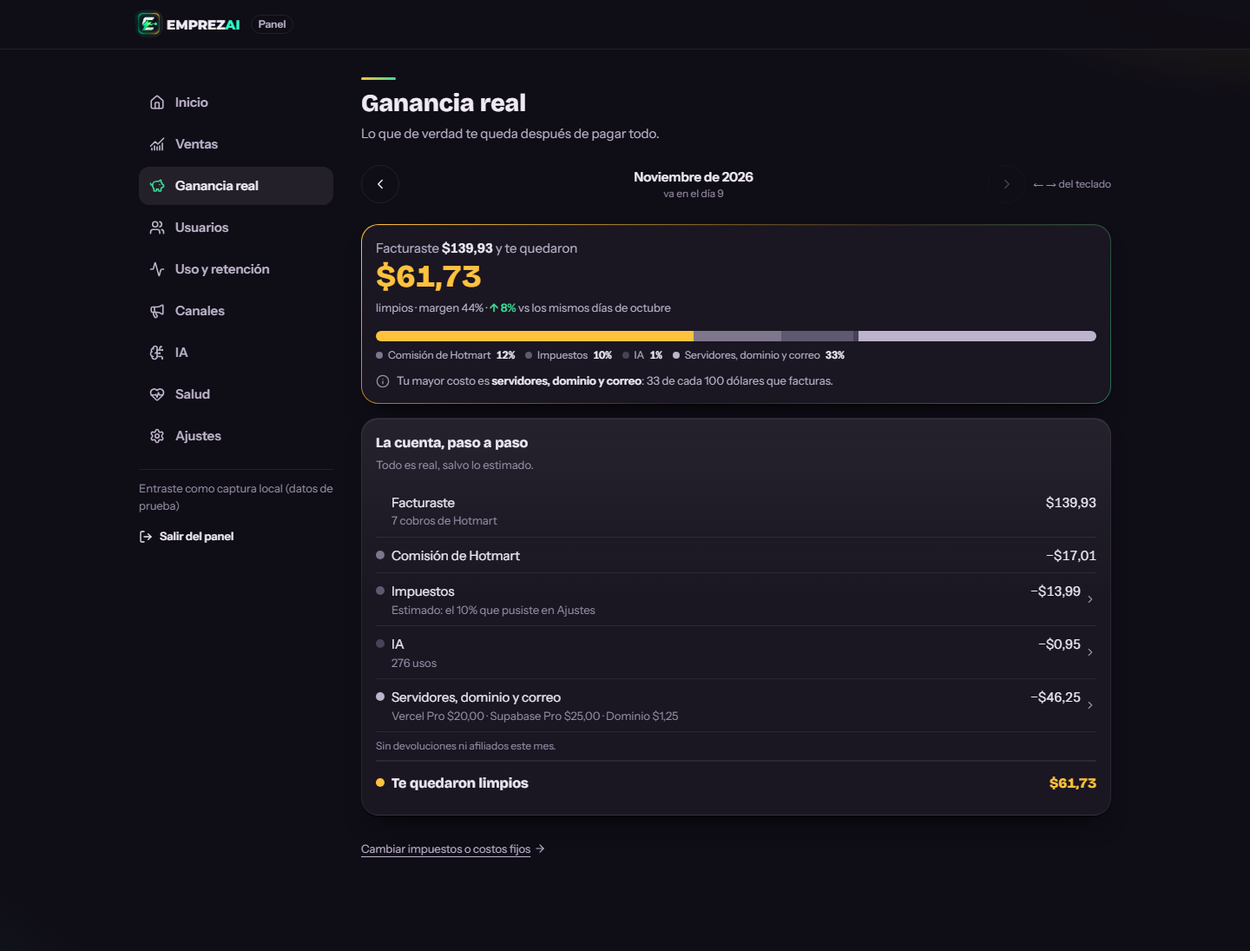
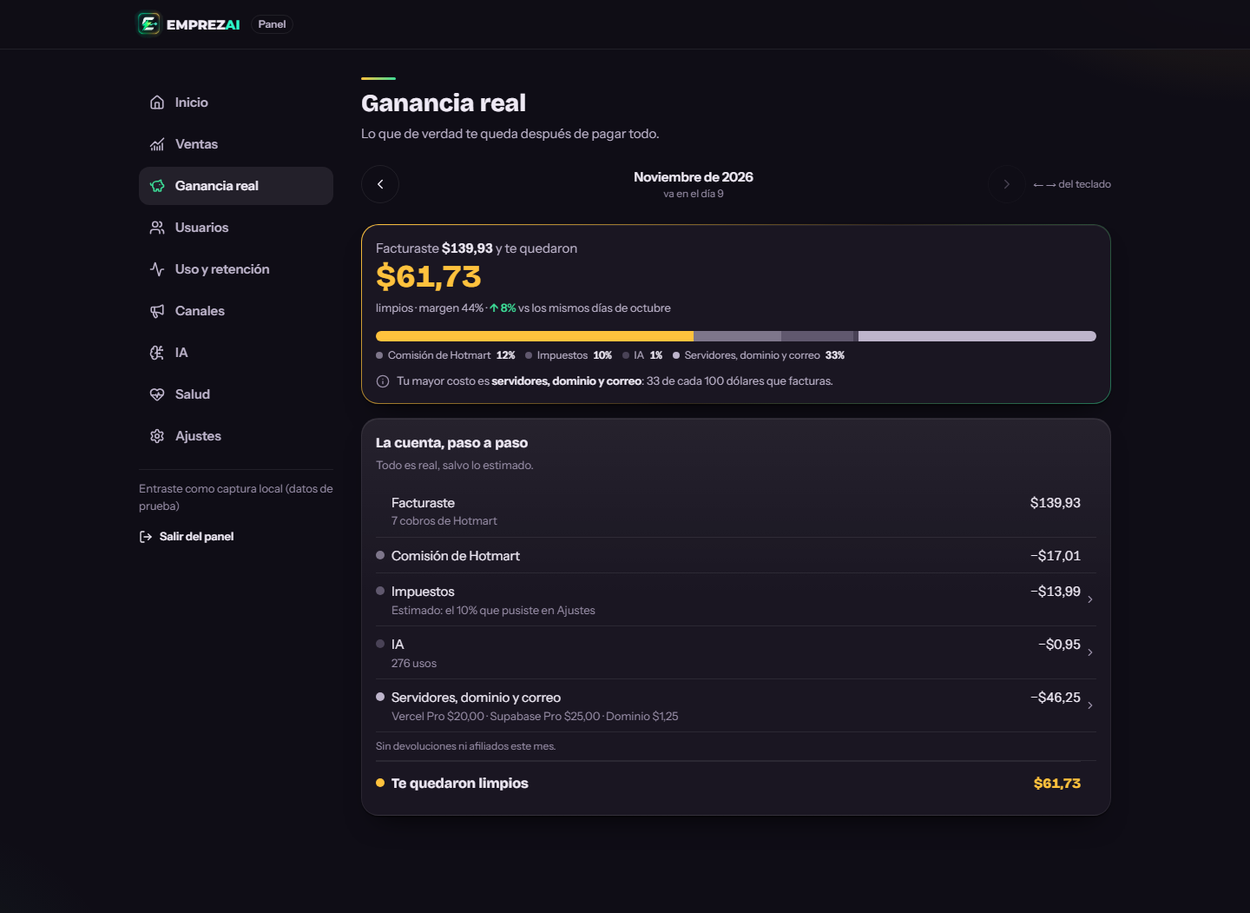
fix(panel): ronda 8 — montos alineados, aviso de canales legible, hoy marcado sin color de éxito, textos de ventas

diff --git a/app/admin/(panel)/ganancia/page.tsx b/app/admin/(panel)/ganancia/page.tsx
@@ -2,9 +2,7 @@
 // va cada dólar (una barra por tramos), después la cuenta paso a paso. Lo real se marca como real y
 // lo estimado, como estimado. Con flechas para ver otros meses.
 
-import Link from 'next/link';
-import { ArrowRight } from 'lucide-react';
-import { Encabezado, FilaMonto, Lectura, SelectorMes, TOCABLE, Tarjeta, TituloTarjeta, Variacion } from '@/components/admin/ui';
+import { Encabezado, FilaMonto, Lectura, SelectorMes, Tarjeta, TituloTarjeta, Variacion } from '@/components/admin/ui';
 import { Cuenta } from '@/components/admin/movimiento';
 import { dinero, entero, pct, variacion } from '@/lib/panel-formato';
 import { calcularGanancia, leerAjustes, leerIa, leerVentas, periodoElegido } from '@/lib/servidor/panel';
@@ -92,7 +90,7 @@ export default async function GananciaPanel({ searchParams }: { searchParams: Pr
       <Tarjeta className="mb-4" indice={2}>
         <TituloTarjeta ayuda="Todo es real, salvo lo estimado.">La cuenta, paso a paso</TituloTarjeta>
         <div className="divide-y divide-[var(--line)]">
-          <FilaMonto concepto="Facturaste" monto={dinero(g.bruto)} nota={g.ventas > 0 ? `${entero(g.ventas)} ${g.ventas === 1 ? 'cobro' : 'cobros'} de Hotmart` : 'Sin cobros todavía'} />
+          <FilaMonto reservarFlecha concepto="Facturaste" monto={dinero(g.bruto)} nota={g.ventas > 0 ? `${entero(g.ventas)} ${g.ventas === 1 ? 'cobro' : 'cobros'} de Hotmart` : 'Sin cobros todavía'} />
           {g.devuelto >= 0.005 && <FilaMonto concepto="Devoluciones" color={COLOR.devuelto} monto={monto(g.devuelto)} href={`/admin/ventas?mes=${periodo.param}&tipo=devoluciones`} />}
           <FilaMonto
             concepto="Comisión de Hotmart"
@@ -100,8 +98,9 @@ export default async function GananciaPanel({ searchParams }: { searchParams: Pr
             monto={monto(g.comision)}
             nota={g.comisionEstimada ? 'Parte estimada (9,9% + $0,45) en las ventas que llegaron sin el detalle' : undefined}
             apagada={g.comision < 0.005}
+            reservarFlecha
           />
-          {g.afiliados >= 0.005 && <FilaMonto concepto="Afiliados" color={COLOR.afiliados} monto={monto(g.afiliados)} nota={g.afiliadosSinInformar > 0 ? `${g.afiliadosSinInformar} ventas llegaron sin el detalle` : undefined} />}
+          {g.afiliados >= 0.005 && <FilaMonto reservarFlecha concepto="Afiliados" color={COLOR.afiliados} monto={monto(g.afiliados)} nota={g.afiliadosSinInformar > 0 ? `${g.afiliadosSinInformar} ventas llegaron sin el detalle` : undefined} />}
           <FilaMonto concepto="Impuestos" color={COLOR.impuestos} monto={monto(g.impuestos)} nota={`Estimado: el ${pct(g.impuestosPct)} que pusiste en Ajustes`} apagada={g.impuestos < 0.005} href="/admin/ajustes" />
           <FilaMonto concepto="IA" color={COLOR.ia} monto={monto(g.ia)} nota={`${entero(ia.llamadas)} usos`} apagada={g.ia < 0.005} href={`/admin/ia?mes=${periodo.param}`} />
           <FilaMonto
@@ -113,15 +112,11 @@ export default async function GananciaPanel({ searchParams }: { searchParams: Pr
             href="/admin/ajustes"
           />
           {g.devuelto < 0.005 && g.afiliados < 0.005 && <p className="py-2 text-xs text-ink-3">Sin devoluciones ni afiliados este mes.</p>}
-          <FilaMonto total concepto="Te quedaron limpios" monto={dinero(g.ganancia)} color={COLOR.queda} />
+          <FilaMonto reservarFlecha total concepto="Te quedaron limpios" monto={dinero(g.ganancia)} color={COLOR.queda} />
         </div>
         {g.otrasMonedas.length > 0 && <p className="mt-2 text-caption text-ink-3">Las ventas en {g.otrasMonedas.join(', ')} no están en esta cuenta: no se suman sin un tipo de cambio con fuente.</p>}
       </Tarjeta>
 
-      <Link href="/admin/ajustes" className={`${TOCABLE} inline-flex min-h-11 items-center gap-1 text-caption text-ink-2 underline underline-offset-4 hover:text-ink-1`}>
-        Cambiar impuestos o costos fijos
-        <ArrowRight size={14} aria-hidden="true" />
-      </Link>
     </div>
   );
 }

diff --git a/app/admin/(panel)/canales/page.tsx b/app/admin/(panel)/canales/page.tsx
@@ -11,7 +11,7 @@ import { calcularChurn, calcularLtv, leerCanales, leerClientes, leerVentas, peri
 
 function veredicto(canal: string, ratio: number | null, gasto: number, clientes: number) {
   const neutro = 'border border-[var(--line)]';
-  if (gasto <= 0) return /^afiliad/.test(canal) ? { texto: 'Paga por venta', tono: 'text-ink-2', fondo: neutro, orden: 3 } : { texto: 'Sin gasto', tono: 'text-ink-3', fondo: '', orden: 3 };
+  if (gasto <= 0) return /^afiliad/.test(canal) ? { texto: 'Paga por venta', tono: 'text-ink-2', fondo: neutro, orden: 3 } : { texto: 'Sin gasto', tono: 'text-ink-2', fondo: neutro, orden: 3 };
   if (clientes === 0) return { texto: 'Sin clientes nuevos', tono: 'text-danger', fondo: 'bg-[color-mix(in_oklab,var(--danger)_14%,transparent)]', orden: 0 };
   if (ratio === null) return { texto: 'Sin datos', tono: 'text-ink-3', fondo: '', orden: 2 };
   if (ratio >= 3) return { texto: 'Sano', tono: 'text-green', fondo: 'bg-[color-mix(in_oklab,var(--green)_14%,transparent)]', orden: 2 };
@@ -57,7 +57,7 @@ export default async function CanalesPanel({ searchParams }: { searchParams: Pro
             numero={cacGeneral}
             formato="dinero"
             decimales={2}
-            detalle={cacGeneral !== null ? 'Promedio de los canales con gasto' : 'Se calcula con gasto y clientes del mismo canal'}
+            detalle={cacGeneral !== null ? 'De anuncios, promedio de todos los canales' : 'Se calcula con gasto y clientes del mismo canal'}
           />
         </Tarjeta>
         <Tarjeta indice={3} className="col-span-2 lg:col-span-1">
@@ -72,12 +72,13 @@ export default async function CanalesPanel({ searchParams }: { searchParams: Pro
       </div>
       {pierde && cacGeneral !== null && vida && (
         <div role="status" className="mb-4 rounded-[var(--radius-card)] border border-[color-mix(in_oklab,var(--danger)_45%,transparent)] bg-[color-mix(in_oklab,var(--danger)_8%,transparent)] p-4 text-ayuda text-ink-1">
-          <strong className="block font-display text-base font-bold">Los anuncios te cuestan más de lo que dejan</strong>
+          <strong className="block font-display text-base font-bold text-ink-1">Los anuncios te cuestan más de lo que dejan</strong>
           <span className="mt-1 block text-caption text-ink-2">Cada cliente de anuncios cuesta {dinero(cacGeneral)} y deja unos {dinero(vida.ltv)}.</span>
           {(perdedores.length > 0 || ganadores.length > 0) && (
             <span className="mt-1 block text-caption text-ink-2">
               {perdedores.length > 0 && `Baja primero el gasto en ${perdedores.map((f) => nombreCanal(f.canal)).join(' y ')}.`}
-              {ganadores.length > 0 && ` ${ganadores.map((f) => nombreCanal(f.canal)).join(' y ')} sí se ${ganadores.length === 1 ? 'paga' : 'pagan'}.`}
+              {ganadores.length > 0 && ` ${ganadores.map((f) => nombreCanal(f.canal)).join(' y ')} sí se ${ganadores.length === 1 ? 'paga' : 'pagan'}`}
+              {ganadores.length > 0 && ' (una suscripción tarda meses en pagarse).'}
             </span>
           )}
         </div>
@@ -139,7 +140,7 @@ export default async function CanalesPanel({ searchParams }: { searchParams: Pro
             })}
           </ul>
         )}
-        <Lectura>Una suscripción casi nunca se paga en el primer mes: por eso un canal puede ir en negativo este mes y aun así ser sano.</Lectura>
+        {!pierde && <Lectura>Una suscripción casi nunca se paga en el primer mes: por eso un canal puede ir en negativo este mes y aun así ser sano.</Lectura>}
       </Tarjeta>
 
       <Link href="/admin/ajustes#gastos" className={`${TOCABLE} tarjeta-relieve-base flex min-h-12 items-center gap-3 rounded-[var(--radius-card)] px-4 text-ayuda font-semibold text-ink-1 hover:bg-raised`}>

diff --git a/app/admin/(panel)/ia/page.tsx b/app/admin/(panel)/ia/page.tsx
@@ -35,6 +35,8 @@ export default async function IaPanel({ searchParams }: { searchParams: Promise<
   const promedioDia = serie.length > 0 ? ia.total_usd / serie.length : 0;
   const hayDisparados = serie.some((d) => promedioDia > 0 && d.usd > promedioDia * 2);
   const { mrr, pagando } = calcularMrr(clientes);
+  const piezaGratis = ia.por_funcion.find((f) => f.tipo === 'primera_pieza');
+  const piezaGratisPct = piezaGratis && ia.total_usd > 0 ? (piezaGratis.usd / ia.total_usd) * 100 : null;
   const pagaUno = pagando > 0 ? mrr / pagando : null;
   const sospechosos = porUsuario !== null ? ia.top_usuarios.filter((u) => u.usd > porUsuario * 3) : [];
 
@@ -70,7 +72,7 @@ export default async function IaPanel({ searchParams }: { searchParams: Promise<
             numero={porUsuario}
             formato="dinero"
             decimales={3}
-            detalle={porUsuario !== null ? (pagaUno ? `${pct((porUsuario / pagaUno) * 100, 1)} de lo que paga uno` : `${entero(ia.usuarios_con_ia)} clientes`) : 'Aún ningún cliente la usó'}
+            detalle={porUsuario !== null ? (pagaUno ? `de los ${dinero(pagaUno)} que paga cada uno al mes` : `${entero(ia.usuarios_con_ia)} clientes`) : 'Aún ningún cliente la usó'}
           />
         </Tarjeta>
         <Tarjeta indice={3}>
@@ -115,7 +117,7 @@ export default async function IaPanel({ searchParams }: { searchParams: Promise<
 
       {ia.por_dia && ia.por_dia.some((d) => d.usd > 0) && (
         <Tarjeta className="mb-4" indice={5}>
-          <TituloTarjeta ayuda={`Punteada: tu promedio · verde: hoy${hayDisparados ? ' · ámbar: más del doble' : ''}.`}>Gasto día por día</TituloTarjeta>
+          <TituloTarjeta ayuda={`Punteada: tu promedio${hayDisparados ? ' · ámbar: más del doble' : ''}.`}>Gasto día por día</TituloTarjeta>
           <p className="mb-2 text-caption text-ink-2">
             Promedio <strong className="font-semibold text-ink-1 tabular-nums">{dinero(promedioDia, 2)}</strong> por día
             {diaMasCaro && (
@@ -149,6 +151,11 @@ export default async function IaPanel({ searchParams }: { searchParams: Promise<
                 </li>
               ))}
             </ul>
+          )}
+          {piezaGratisPct !== null && piezaGratisPct >= 25 && (
+            <Lectura>
+              La pieza gratis es el {pct(piezaGratisPct)} del gasto: es lo que cuesta mostrarle el resultado a quien todavía no paga. Vale la pena si muchas de esas personas terminan comprando (míralo en Uso).
+            </Lectura>
           )}
         </Tarjeta>
         <Tarjeta indice={7}>

diff --git a/app/admin/(panel)/ventas/page.tsx b/app/admin/(panel)/ventas/page.tsx
@@ -115,14 +115,14 @@ export default async function VentasPanel({ searchParams }: { searchParams: Prom
             numero={conversion}
             formato="pct"
             tono={conversion !== null && conversion >= 40 && pruebasTerminadas >= 10 ? 'bien' : 'neutro'}
-            detalle={conversion !== null ? `${entero(ventas.pruebas_a_pago)} de ${entero(pruebasTerminadas)} que terminaron${pruebasTerminadas < 10 ? ' (aún son pocas para sacar conclusiones)' : ''}` : `${entero(ventas.pruebas_iniciadas)} pruebas nuevas; ninguna terminó aún`}
+            detalle={conversion !== null ? `${entero(ventas.pruebas_a_pago)} de ${entero(pruebasTerminadas)} que terminaron${pruebasTerminadas < 10 ? ' (aún pocas)' : ''}` : `${entero(ventas.pruebas_iniciadas)} pruebas nuevas; ninguna terminó aún`}
           />
         </Tarjeta>
       </div>
 
       <div className="mb-4 grid gap-3 lg:grid-cols-2">
         <Tarjeta indice={5}>
-          <TituloTarjeta ayuda="Separado porque se resuelve distinto: unos decidieron irse, a otros les falló el pago.">Quién se fue y por qué</TituloTarjeta>
+          <TituloTarjeta ayuda={nadieSeFue ? undefined : 'Separado porque se resuelve distinto: unos decidieron irse, a otros les falló el pago.'}>Quién se fue y por qué</TituloTarjeta>
           {churn.total !== null && (
             <p className="mb-3 text-caption text-ink-2">
               <strong className={`font-display text-xl font-extrabold tabular-nums ${churn.total > 8 ? 'text-danger' : 'text-ink-1'}`}>{churn.total.toLocaleString('es', { maximumFractionDigits: 1 })}%</strong> de los {entero(ventas.pagando_al_inicio)} que pagaban al empezar el mes
@@ -241,7 +241,7 @@ export default async function VentasPanel({ searchParams }: { searchParams: Prom
         )}
         {clientes.manuales > 0 && (
           <p className="mt-3 text-caption text-ink-3">
-            {entero(clientes.manuales)} {clientes.manuales === 1 ? 'persona tiene acceso regalado' : 'personas tienen acceso regalado'} por ti: no cuentan como venta.
+            {entero(clientes.manuales)} {clientes.manuales === 1 ? 'persona tiene acceso regalado por ti: no cuenta como venta.' : 'personas tienen acceso regalado por ti: no cuentan como venta.'}
           </p>
         )}
       </Tarjeta>

diff --git a/components/admin/Graficos.tsx b/components/admin/Graficos.tsx
@@ -62,7 +62,7 @@ export function GraficoGastoDia({ datos }: { datos: { fecha: string; usd: number
   return (
     <div className="h-36 w-full min-w-0" role="img" title="Línea punteada: tu promedio por día" aria-label={`Gasto de IA por día: US${total.toFixed(2)} en total`}>
       <ResponsiveContainer width="100%" height="100%" minWidth={0}>
-        <BarChart data={datos} margin={{ top: 8, right: 0, bottom: 0, left: 0 }}>
+        <BarChart data={datos} margin={{ top: 18, right: 0, bottom: 0, left: 0 }}>
           <XAxis dataKey="fecha" ticks={marcas} tickFormatter={fechaEje} axisLine={false} tickLine={false} tick={{ fill: 'var(--ink-3)', fontSize: 11 }} interval="preserveStartEnd" />
           <Tooltip
             cursor={{ fill: 'rgb(255 255 255 / 0.04)' }}
@@ -72,9 +72,10 @@ export function GraficoGastoDia({ datos }: { datos: { fecha: string; usd: number
             labelStyle={{ color: 'var(--ink-2)' }}
           />
           <ReferenceLine y={promedio} stroke="var(--ink-3)" strokeDasharray="3 3" />
+          {hoy && <ReferenceLine x={hoy} stroke="transparent" label={{ value: 'hoy', position: 'top', fill: 'var(--ink-2)', fontSize: 11, fontWeight: 600 }} />}
           <Bar dataKey="usd" radius={[3, 3, 0, 0]} isAnimationActive={!reduce} animationDuration={600}>
             {datos.map((d) => (
-              <Cell key={d.fecha} fill={d.usd > promedio * 2 && promedio > 0 ? 'var(--warning)' : d.fecha === hoy ? 'var(--green)' : 'color-mix(in oklab, var(--ink-2) 60%, transparent)'} />
+              <Cell key={d.fecha} fill={d.usd > promedio * 2 && promedio > 0 ? 'var(--warning)' : 'color-mix(in oklab, var(--ink-2) 60%, transparent)'} />
             ))}
           </Bar>
         </BarChart>

diff --git a/components/admin/ui.tsx b/components/admin/ui.tsx
@@ -247,7 +247,26 @@ export function BannerAvisos({ avisos, periodo }: { avisos: Aviso[]; periodo: st
 }
 
 /** Fila "concepto · monto" de la cascada de ganancia. El signo vive SOLO en el monto. */
-export function FilaMonto({ concepto, monto, nota, total = false, color, apagada = false, href }: { concepto: string; monto: string; nota?: string; total?: boolean; color?: string; apagada?: boolean; href?: string }) {
+export function FilaMonto({
+  concepto,
+  monto,
+  nota,
+  total = false,
+  color,
+  apagada = false,
+  href,
+  reservarFlecha = false,
+}: {
+  concepto: string;
+  monto: string;
+  nota?: string;
+  total?: boolean;
+  color?: string;
+  apagada?: boolean;
+  href?: string;
+  /** En listas donde algunas filas son tocables: deja el lugar de la flecha para que los montos queden alineados. */
+  reservarFlecha?: boolean;
+}) {
   if (href) {
     return (
       <Link href={href} className={`${TOCABLE} group flex items-center gap-1 hover:bg-[color-mix(in_oklab,var(--ink-1)_4%,transparent)]`}>
@@ -256,6 +275,16 @@ export function FilaMonto({ concepto, monto, nota, total = false, color, apagada
         </span>
         <ChevronRight size={14} className="shrink-0 text-ink-3 transition-transform group-hover:translate-x-0.5" aria-hidden="true" />
       </Link>
+    );
+  }
+  if (reservarFlecha) {
+    return (
+      <div className="flex items-center gap-1">
+        <span className="min-w-0 flex-1">
+          <FilaMonto concepto={concepto} monto={monto} nota={nota} total={total} color={color} apagada={apagada} />
+        </span>
+        <span aria-hidden="true" className="w-3.5 shrink-0" />
+      </div>
     );
   }
   return (

diff --git a/docs/revisiones/panel-ganancia-veredicto.md b/docs/revisiones/panel-ganancia-veredicto.md
@@ -1,9 +1,9 @@
 # VEREDICTO revisor-visual — panel-ganancia
-Fecha: 2026-11-10 03:00
+Fecha: 2026-11-10 05:00
 Screenshot: docs/revisiones/panel/ganancia-375.png
-Usabilidad: 35/40
-Craft: 16/20
+Usabilidad: 36/40
+Craft: 15/20
 Copy (si vende): N-A
 Fidelidad (si hubo referencia): N-A
 Veredicto: NO LISTA
-Top defectos: 1) [Filas Impuestos / IA / Servidores, components/admin/ui.tsx FilaMonto línea 252] el Link con -mx-2 px-2 hace que el divisor de esas tres filas sea 8px más ancho por cada lado que el de "Comisión de Hotmart", con las puntas redondeadas visibles en la captura; y nada indica que se pueden tocar (sin flecha, sin subrayado, solo hover en escritorio) → divisor fuera del Link (en el <div> contenedor) y un chevron ink-3 a la derecha del monto, igual que en las tarjetas tocables. 2) [Ayuda "En dólares. Todo es real, salvo lo marcado como estimado.", app/admin/(panel)/ganancia/page.tsx línea 101] sigue ocupando 2 líneas para algo que ya dice la fila estimada (ronda 5) → quitarla. 3) [Leyenda bajo la barra] los puntos de Hotmart, Impuestos e IA siguen viéndose del mismo gris a 8px → punto de 10px y separar más los dos grises intermedios. 4) [Línea "Sin devoluciones ni afiliados este mes"] queda debajo del total dorado, como una nota suelta después del resultado → ponerla antes del total (debajo de la última fila de costo). 5) [Enlace "Cambiar impuestos o costos fijos"] fuera de la tarjeta, flotando sobre un hueco de ~150px al pie → dentro de la tarjeta, bajo el total, o quitarlo ahora que las filas ya llevan a Ajustes.
+Top defectos: 1) [Columna de montos de "La cuenta, paso a paso", components/admin/ui.tsx FilaMonto] el chevron nuevo de las filas tocables empuja sus montos ~36px a la izquierda: $139,93, −$17,01 y $61,73 terminan en el borde, pero −$13,99, −$0,95 y −$46,25 terminan antes; en una cascada de dinero la columna de cifras queda dentada, y el chevron va centrado en la fila, no alineado con el monto → reservar el ancho del chevron en TODAS las filas (span vacío de 16px en las no tocables y en el total) para que los montos alineen a la derecha, y chevron alineado a la línea base del monto. 2) [Leyenda bajo la barra, app/admin/(panel)/ganancia/page.tsx líneas 77-84] los puntos de Hotmart, Impuestos e IA siguen viéndose del mismo gris a 8px (pedido en rondas 5 y 6) → punto de 10px y separar más los grises intermedios. 3) [Enlace "Cambiar impuestos o costos fijos"] fuera de la tarjeta, flotando al pie, ahora redundante con las filas que ya llevan a Ajustes → quitarlo o moverlo dentro de la tarjeta bajo el total. 4) [Fila "Comisión de Hotmart"] es el único costo sin nota ni enlace, entre filas que sí los tienen → nota "12% · lo informó Hotmart" para que el ritmo de la lista sea parejo. 5) [Lectura "Tu mayor costo es servidores…"] repite el 33% que la leyenda ya muestra justo encima → convertirla en consejo ("Con 15 clientes más, los servidores bajarían a 1 de cada 5 dólares") o quitarla.

diff --git a/docs/revisiones/panel-canales-veredicto.md b/docs/revisiones/panel-canales-veredicto.md
@@ -1,9 +1,9 @@
 # VEREDICTO revisor-visual — panel-canales
-Fecha: 2026-11-10 03:00
+Fecha: 2026-11-10 05:00
 Screenshot: docs/revisiones/panel/canales-375.png
 Usabilidad: 35/40
 Craft: 15/20
 Copy (si vende): N-A
 Fidelidad (si hubo referencia): N-A
 Veredicto: NO LISTA
-Top defectos: 1) [Tarjeta "Llegaron por su cuenta", app/admin/(panel)/canales/page.tsx líneas 14 y 94] "Sin gasto" no lleva fondo pero sí px-2.5: al bajar de línea (el nombre es largo) queda corrido 10px a la derecha del borde del texto, flotando sin alinearse con nada → sin padding cuando no hay fondo/borde (o pill con borde como "Paga por venta"), y gap-y-1 en la fila. 2) [Tarjeta Instagram, líneas 106-115] la fila "Te dejarán $0" con el riel vacío sigue ahí (ronda 5): repite el veredicto "Sin clientes nuevos" → ocultar la fila cuando valor = 0. 3) [Aviso rojo, líneas 71-75] 4 líneas de texto denso en ink-1 sin jerarquía interna; el "qué hacer" ("baja el gasto en Instagram") va al medio → título de 1 línea ("Instagram hunde tu promedio") + "Baja el gasto ahí primero; TikTok sí se paga." 4) [KPI "Costo por cliente $100,00"] promedia un canal con 0 clientes; el número que la dueña necesita es el de los canales que traen gente → detalle "TikTok: $46,67". 5) [Nota final "Una suscripción casi nunca se paga en el primer mes…"] 3 líneas al pie que contradicen en tono al aviso rojo de arriba → moverla dentro del aviso como segunda frase, o quitarla.
+Top defectos: 1) [Título del aviso rojo "Los anuncios te cuestan más de lo que dejan", app/admin/(panel)/canales/page.tsx línea 75] en la captura sale casi invisible: texto oscuro sobre el fondo rojo oscuro (contraste muy por debajo de 4.5:1); es el mensaje más importante de la pantalla y no se lee. El <strong> no declara color y algo en esa cascada lo oscurece → poner text-ink-1 explícito en el <strong>, verificar el color computado en el navegador y recapturar. 2) [Tarjeta "Llegaron por su cuenta"] "Sin gasto" ahora alinea bien, pero en ink-3 sin borde parece texto deshabilitado frente a las otras pastillas → borde de 1px como "Paga por venta" para que las 4 etiquetas sean del mismo sistema. 3) [Nota final "Una suscripción casi nunca se paga en el primer mes…"] 3 líneas al pie que matizan el aviso rojo de arriba, lejos de él (pedido en la ronda 6) → moverla al aviso como última línea corta o quitarla. 4) [KPI "Costo por cliente $100,00"] promedia Instagram, que no trajo clientes; el aviso ya lo explica, pero el número sigue siendo el más grande de la primera vista → detalle "TikTok: $46,67 · Instagram: sin clientes". 5) [Tarjeta TikTok] "cada uno costó $46,67" parte en 2 líneas con el número solo en la segunda → $46,67 con whitespace-nowrap junto a "cada uno costó".

diff --git a/docs/revisiones/panel-ventas-veredicto.md b/docs/revisiones/panel-ventas-veredicto.md
@@ -1,9 +1,9 @@
 # VEREDICTO revisor-visual — panel-ventas
-Fecha: 2026-11-10 03:00
+Fecha: 2026-11-10 05:00
 Screenshot: docs/revisiones/panel/ventas-375.png
-Usabilidad: 34/40
+Usabilidad: 35/40
 Craft: 16/20
 Copy (si vende): N-A
 Fidelidad (si hubo referencia): N-A
 Veredicto: NO LISTA
-Top defectos: 1) [Enlace "Verlos" de "Tus clientes hoy", app/admin/(panel)/ventas/page.tsx líneas 167-174] es la única salida a los 26 que ya no tienen acceso (el grupo con más potencial de recuperación) y es una palabra subrayada al final de una frase en caption, con ~20px de alto (menos de los 44px mínimos) → botón secundario de ancho completo "Ver los 26 y escribirles". 2) [Lista de movimientos, línea 35 y 235] por encima de 50 cobros en el mes, los más viejos quedan inalcanzables (solo se avisa "se muestran los 50 más recientes") → paginar ("Ver más") en vez de un tope fijo. 3) [Tarjeta "Suscripciones al mes", línea 106] el detalle de 3 líneas ("Lo que suman al mes tus 29 clientes (19 mensual · 10 anual)") alarga la fila → "19 mensual · 10 anual" y nada más (el título ya dice qué es). 4) [Ayuda de "Quién se fue y por qué", línea 122] explica por qué se separa algo que hoy está en 0 → mostrar la ayuda solo cuando haya casos que separar. 5) [Barra de noviembre en el héroe, línea 90] la barra elegida va en ink-1 casi blanco, más brillante que el número dorado del héroe → ink-2 sólido con el mes en negrita (ya lo está), sin competir con el dorado.
+Top defectos: 1) [Tarjeta "Quién se fue y por qué", app/admin/(panel)/ventas/page.tsx línea 122] la ayuda "Separado porque se resuelve distinto: unos decidieron irse, a otros les falló el pago" se muestra aunque no haya nada que separar (todo en 0), y la tarjeta dice "0%" + "Nadie se fue este mes…" (tres frases para un cero; pedido en la ronda 6) → con todo en 0, sin ayuda: una sola línea "Nadie se fue en noviembre (0 de 27)". 2) [Tarjeta "Pruebas que pagaron 50%", línea 115] el detalle ocupa 3 líneas ("2 de 4 que terminaron (aún son pocas para sacar conclusiones)") y deja a "Suscripciones al mes" con un hueco de ~60px → "2 de 4 · aún pocas" en 1 línea. 3) [Lista "Movimientos de noviembre"] el cobro de $79,99 (plan anual) y los de $9,99 se ven iguales: no se distingue qué plan compró cada uno → añadir "Anual"/"Mensual" junto a "Cobro" en la línea secundaria. 4) [Héroe, 6 barras] "nov" solo se marca con negrita en el texto; la barra elegida ahora es igual a las demás → borde o tono ink-2 sólido en la barra del mes elegido (sin superar al dorado). 5) [Pie "1 persona tiene acceso regalado por ti: no cuentan como venta."] concordancia rota ("1 persona… no cuentan") → "no cuenta como venta" en singular.

diff --git a/docs/revisiones/panel-inicio-veredicto.md b/docs/revisiones/panel-inicio-veredicto.md
@@ -1,9 +1,9 @@
 # VEREDICTO revisor-visual — panel-inicio
-Fecha: 2026-11-10 03:00
+Fecha: 2026-11-10 05:00
 Screenshot: docs/revisiones/panel/inicio-375.png
-Usabilidad: 35/40
+Usabilidad: 37/40
 Craft: 16/20
 Copy (si vende): N-A
 Fidelidad (si hubo referencia): N-A
-Veredicto: NO LISTA
-Top defectos: 1) [Tarjeta "Suscripciones al mes", app/admin/(panel)/page.tsx línea 122] el detalle pasó a 4 líneas ("Lo que suman al mes tus 29 clientes (el plan anual cuenta su parte de cada mes)") y estira la fila: "Clientes activos" queda con ~90px vacíos y su flecha flotando abajo → detalle de 1-2 líneas ("29 clientes · el anual cuenta 1/12") y la explicación larga en la sección Ventas. 2) [Banda de avisos a 375] los dos avisos ocupan ~600px y el dato principal ($61,73) aparece recién al final de la primera pantalla de un iPhone (~812px) → en móvil, avisos en una sola línea (título + "Ver canales"), con el "qué hacer" dentro del plegable junto al "por qué". 3) [Etiqueta "Clientes activos 38 · 29 pagando · 9 en prueba"] "activos" mezcla a quien paga con quien prueba gratis, mientras "Se fueron 0,0%" y "Suscripciones" cuentan solo a los 29 que pagan → "Clientes hoy" o "29 pagando + 9 probando". 4) [Pie del gráfico] la leyenda va centrada y la lectura alineada a la izquierda justo debajo (dos alineaciones en 40px) → leyenda alineada a la izquierda. 5) [Atajo de teclado, components/admin/AtajoMes.tsx] funciona (verificado), pero nada en pantalla lo revela salvo el aria-label → title "← → para cambiar de mes" en las flechas del selector en escritorio.
+Veredicto: LISTA
+Top defectos: 1) [Avisos, components/admin/ui.tsx línea 231] solo se muestra 1 aviso y el resto se pliega aunque sea de gravedad alta (calcularAvisos ordena por gravedad, pero con 2 avisos "alta" el segundo queda escondido) → mostrar siempre todos los de gravedad alta y plegar solo los de gravedad media. 2) [Pie del gráfico "Últimos 6 meses"] la leyenda va centrada y la lectura alineada a la izquierda justo debajo (dos alineaciones en 40px) → leyenda alineada a la izquierda. 3) [Atajo de teclado, captura 1440] "← → del teclado" queda pegado a la flecha deshabilitada, en ink-3 de 12px, y se lee como parte del selector → moverlo debajo del mes ("Usa ← → para cambiar de mes") o a un title de las flechas. 4) [Tarjetas "Gasto en IA" y "Se fueron"] el detalle ocupa 2 líneas a 375 mientras las de arriba ocupan 1-2; la flecha queda a alturas distintas entre filas → detalle ≤1 línea ("0,7% de lo facturado", "0 cancelaron · 0 fallaron"). 5) [Etiqueta "Se fueron 0,0%"] sin el "este mes" ya no dice de qué período es cuando se mira un mes pasado → "Se fueron en nov".

diff --git a/docs/revisiones/panel-ajustes-veredicto.md b/docs/revisiones/panel-ajustes-veredicto.md
@@ -1,9 +1,9 @@
 # VEREDICTO revisor-visual — panel-ajustes
-Fecha: 2026-11-10 03:00
+Fecha: 2026-11-10 05:00
 Screenshot: docs/revisiones/panel/ajustes-375.png
-Usabilidad: 35/40
+Usabilidad: 37/40
 Craft: 16/20
 Copy (si vende): N-A
 Fidelidad (si hubo referencia): N-A
-Veredicto: NO LISTA
-Top defectos: 1) [Estados vacíos, components/admin/FormulariosAjustes.tsx líneas 146 y 204] "Aún no anotaste costos fijos." / "Aún no anotaste gastos en anuncios." no enseñan qué poner ni por qué importa (heurística 10) → "Anota lo que pagas cada mes (hosting, base de datos, dominio). Sin esto, tu ganancia real aparece más alta de lo que es." y el formulario abierto. 2) [Formulario de gasto, heurística 7 verificada en código] ningún valor sugerido a partir de lo ya cargado: al elegir TikTok no se propone el monto del mes anterior ($120) → placeholder o valor sugerido con el último gasto del canal elegido. 3) [Lista de gastos agrupada por mes] los meses anteriores siguen abiertos y la lista crecerá mes a mes → plegar los meses anteriores al actual (mostrar solo el encabezado con su total). 4) [Fila de gasto "1 nov – 9 nov · Anuncios de noviembre"] la nota repite la fecha y parte en 2 líneas → nota solo si aporta algo distinto de las fechas (o truncada a 1 línea). 5) [Botones de quitar] los tachos van en ink-3 sin borde, mientras "Agregar un costo" y "Cambiar el porcentaje" son texto con "+": tres estilos de acción secundaria en una pantalla → mismo tratamiento (texto + ícono, ink-2) para las acciones de lista.
+Veredicto: LISTA
+Top defectos: 1) [Lista de gastos agrupada por mes, components/admin/FormulariosAjustes.tsx] los meses anteriores siguen abiertos y la lista crecerá cada mes (ronda 6) → plegar los meses anteriores al actual mostrando solo el encabezado con su total. 2) [Fila "1 nov – 9 nov · Anuncios de noviembre"] la nota repite lo que ya dicen las fechas y parte la fila en 2 líneas → mostrar la nota solo si aporta algo distinto, truncada a 1 línea. 3) [Acciones secundarias] tachos en ink-3 sin borde, "+ Agregar un costo" / "+ Cambiar el porcentaje" en texto ink-1 y "Guardar" con borde: tres estilos de acción secundaria en una pantalla → mismo tratamiento para las acciones de lista (texto + ícono). 4) [Placeholder "La última vez: $120,00", línea 263] la sugerencia es buena, pero como placeholder desaparece al escribir y no se puede aceptar con un toque → chip "Usar $120" bajo el campo que lo rellena. 5) [Tarjeta "Impuestos"] el 10% grande en ink-1 compite en peso con el título de la pantalla; es un dato de configuración, no el héroe del negocio → text-3xl en vez de 4xl.

diff --git a/docs/revisiones/panel-ia-veredicto.md b/docs/revisiones/panel-ia-veredicto.md
@@ -1,9 +1,9 @@
 # VEREDICTO revisor-visual — panel-ia
-Fecha: 2026-11-10 03:00
+Fecha: 2026-11-10 05:00
 Screenshot: docs/revisiones/panel/ia-375.png
-Usabilidad: 34/40
+Usabilidad: 35/40
 Craft: 16/20
 Copy (si vende): N-A
 Fidelidad (si hubo referencia): N-A
 Veredicto: NO LISTA
-Top defectos: 1) [Lista "Quiénes más la usan", app/admin/(panel)/ia/page.tsx línea 166] los correos ya son enlaces a la ficha, pero en el celular no se nota (solo hover:underline, que no existe al tocar) y cada enlace mide ~20px de alto, muy por debajo de los 44px → fila completa tocable (min-h-11) con chevron ink-3 al final, como las tarjetas. 2) [KPI "IA por cliente", línea 72] el detalle ocupa 3 líneas ("De unos $8,84 que paga cada uno al mes (0,2%)") y deja a "Usos de la IA" con un hueco abajo → "0,2% de lo que paga ($8,84)". 3) [Gráfico diario, components/admin/Graficos.tsx línea 75] la barra de hoy (lavanda clara) es casi igual a las demás: "la barra clara, hoy" obliga a comparar tonos → etiqueta "hoy" debajo de la última barra en vez de solo color. 4) [Ayuda de "Gasto día por día"] dos frases de ayuda + una línea de resumen antes del gráfico → fusionar: "Promedio $0,11 por día (línea punteada) · el más caro, el 4 nov ($0,12)". 5) [Por función] "Pieza 1 gratis (antes de pagar)" cuesta casi tanto como la función principal y no se dice si eso está bien → lectura de 1 línea ("La pieza gratis es el 41% del gasto: es lo que convierte").
+Top defectos: 1) [Barra de hoy en "Gasto día por día", components/admin/Graficos.tsx línea 75] ahora va en VERDE: en la ficha y en todo el panel el verde significa "bien / progreso hecho", y en un gráfico de COSTO la barra más alta del día se lee como algo positivo → hoy en ink-2 sólido con la etiqueta "hoy" bajo la barra (texto, no color). 2) [KPI "IA por cliente", app/admin/(panel)/ia/page.tsx línea 72] "0,2% de lo que paga uno" suena a traducción → "0,2% de lo que te paga cada cliente". 3) [Por función] "Pieza 1 gratis (antes de pagar)" es el 41% del gasto y no se interpreta (pedido en la ronda 6) → una lectura de 1 línea: "La pieza gratis es el 41% del gasto: es la que convierte a quien prueba". 4) [Ayuda "Punteada: tu promedio · verde: hoy"] estilo telegráfico de leyenda técnica → "La línea punteada es tu promedio diario." (y la etiqueta "hoy" en el eje). 5) [Lista "Quiénes más la usan"] con filas de 44px y sin divisores, los 5 correos quedan separados por huecos grandes que parecen vacío → divide-y con la línea del kit, o py-3 con el correo y el costo alineados a la misma línea base.
